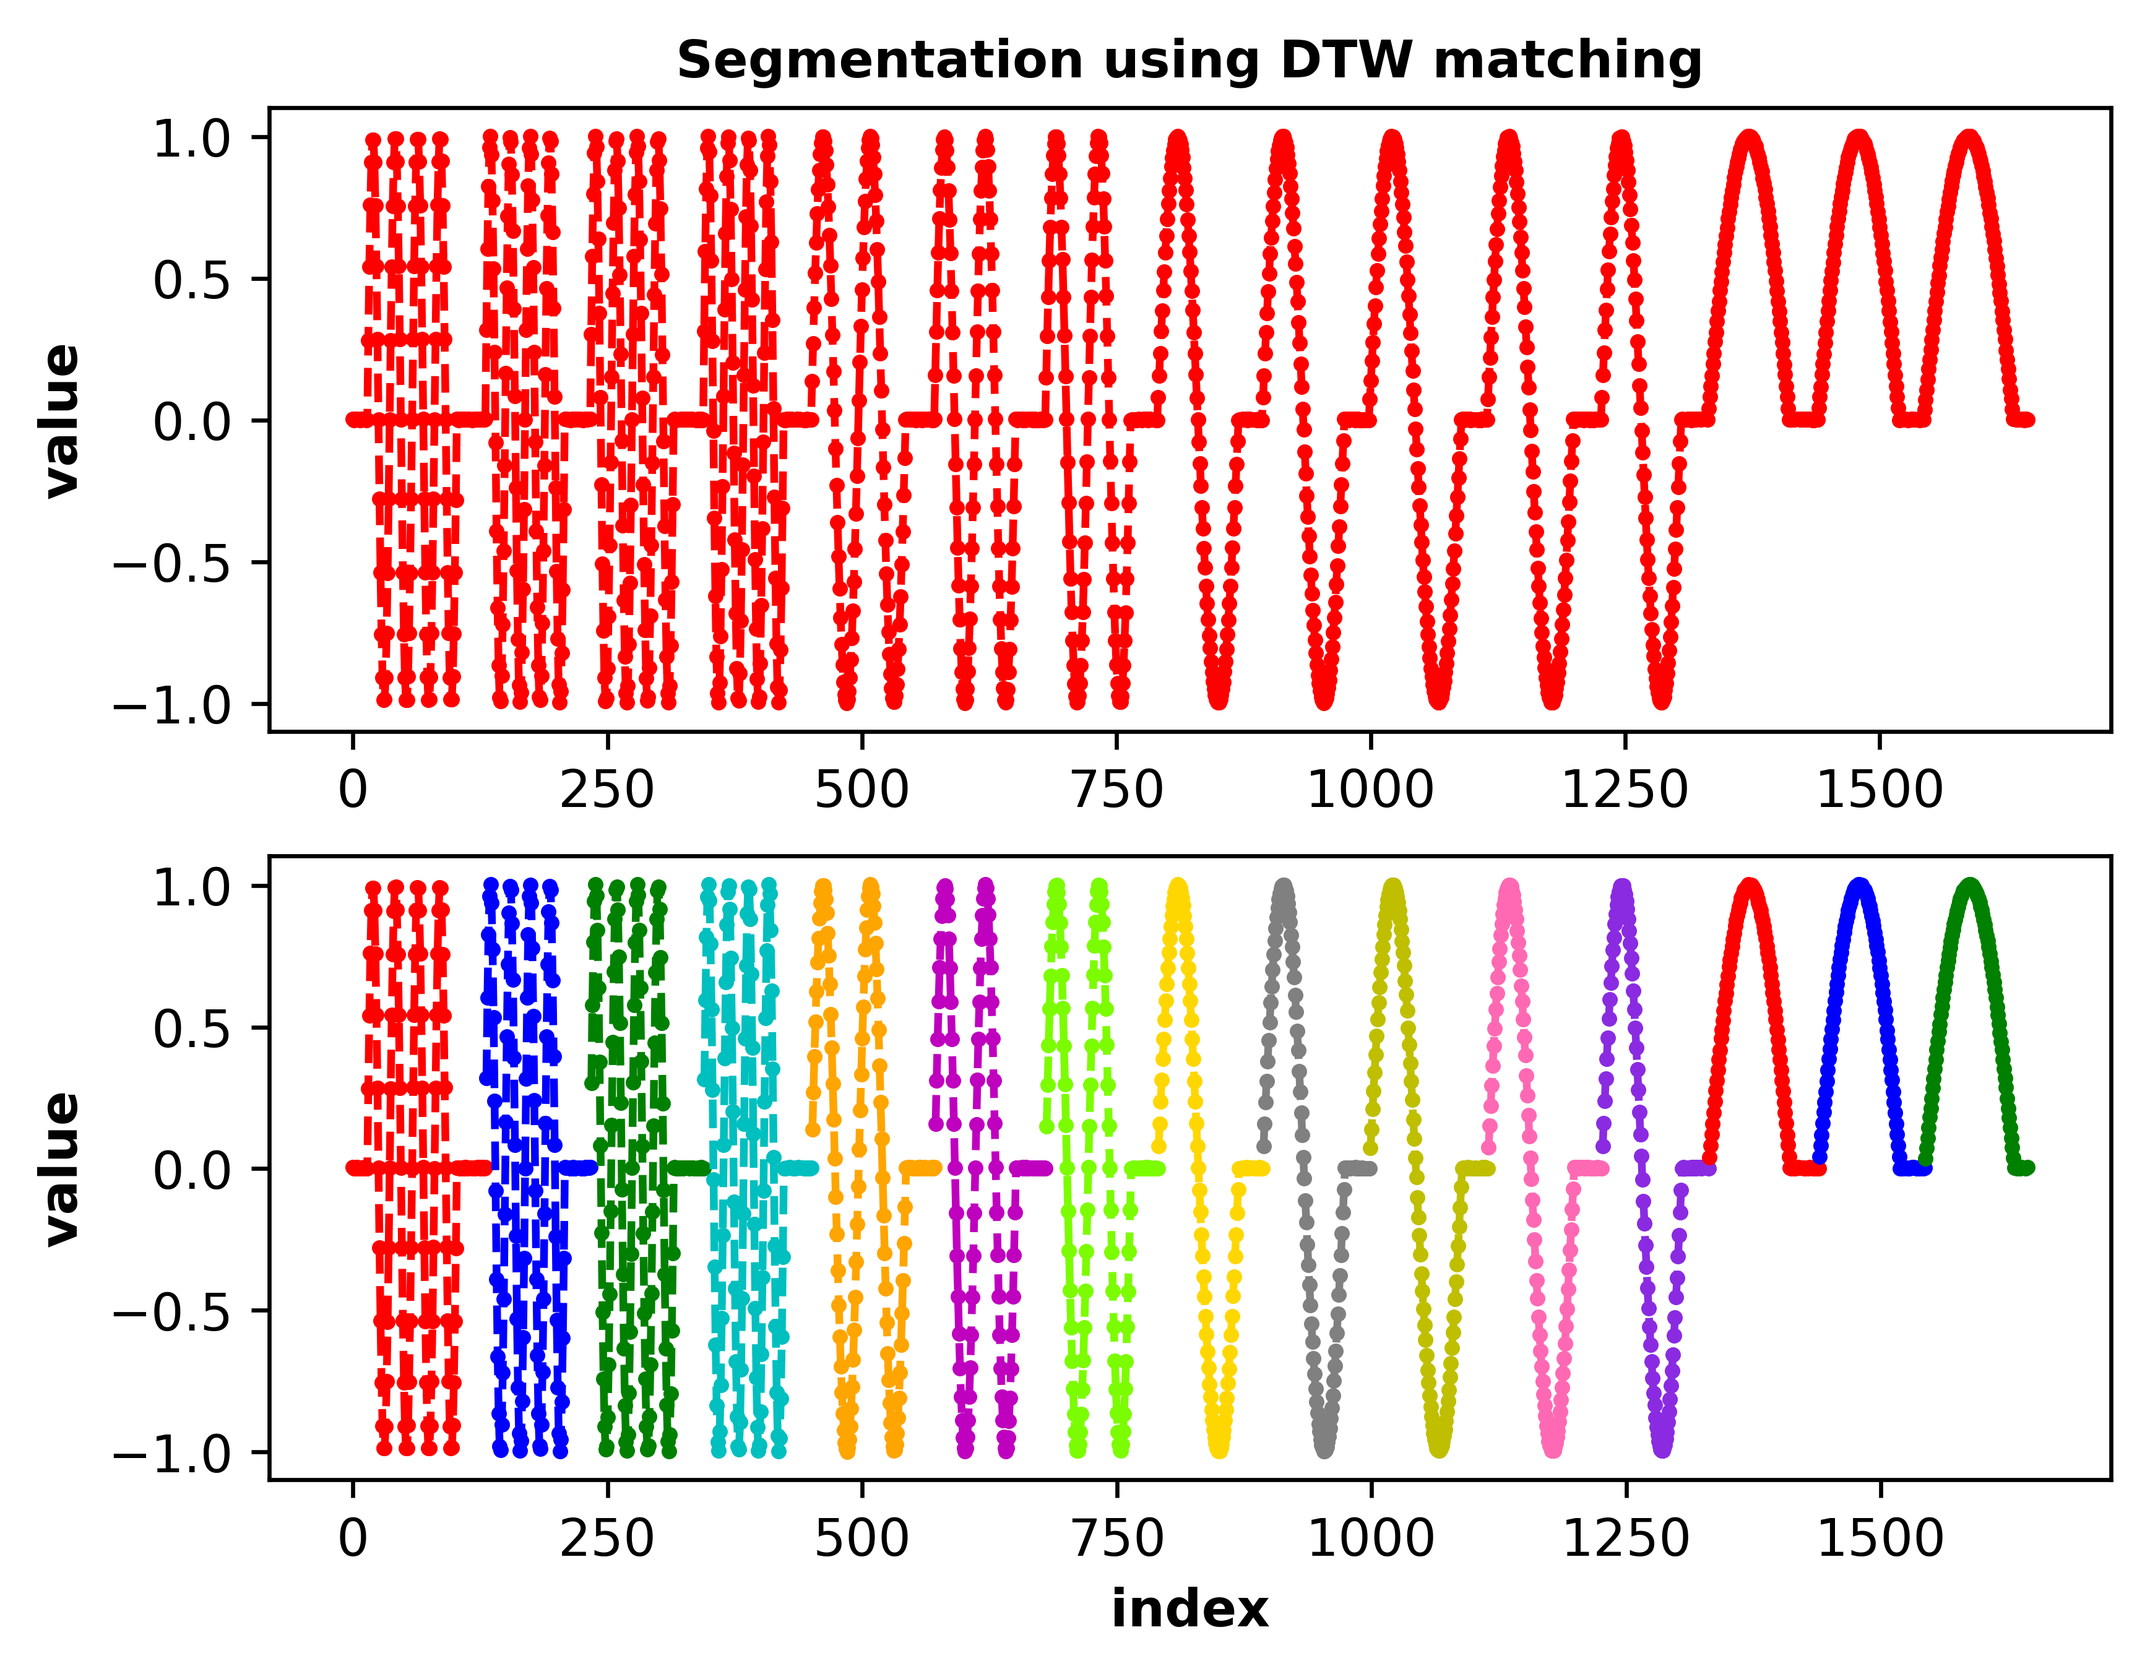
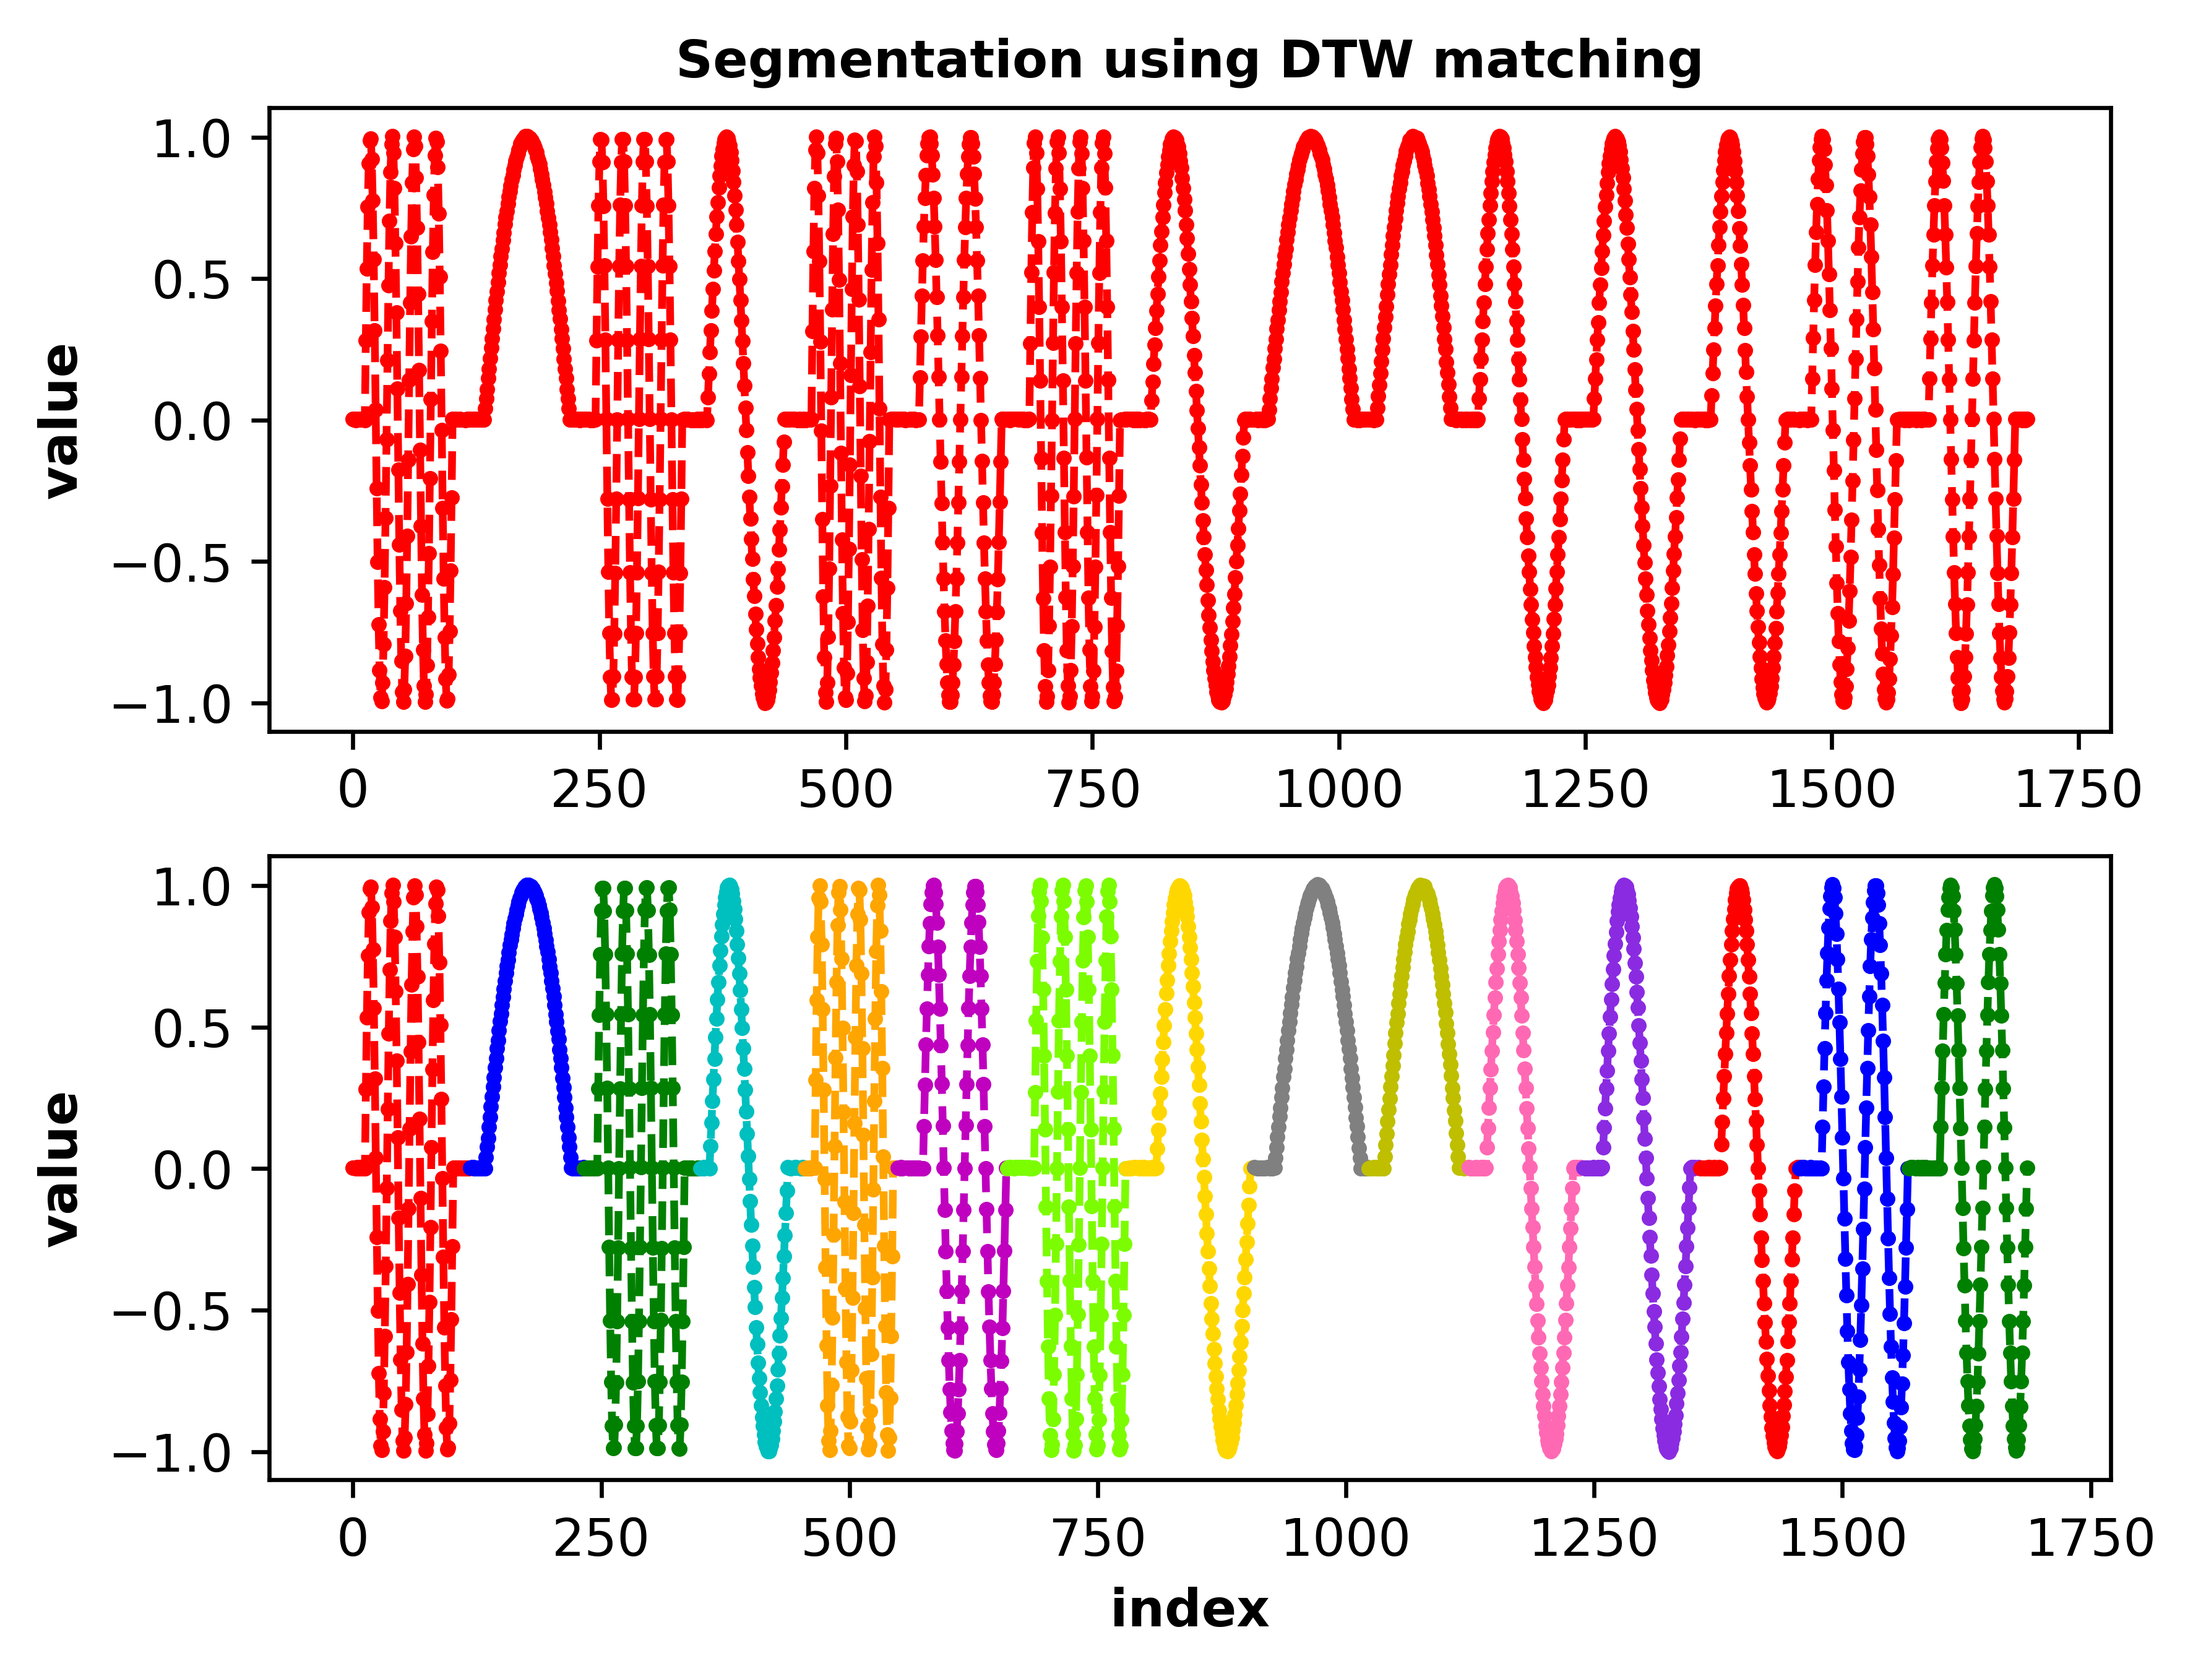
Updates

diff --git a/segmentation.py b/segmentation.py
@@ -55,8 +55,13 @@ def average_lb_distance_to_templates2(sequence, templates_info):
         for temp in t:
             mask1 = sequence[:, 0] > temp.max
             mask2 = sequence[:, 0] < temp.min
+            # For the first and last values of the sequence, we calculate the exact deviation instead of
+            # deviation with the maximum or minimum
+            mask1[0] = mask1[-1] = mask2[0] = mask2[-1] = False
             val += (np.sqrt(np.sum((sequence[mask1, 0] - temp.max) ** 2) +
-                            np.sum((sequence[mask2, 0] - temp.min) ** 2)) /
+                            np.sum((sequence[mask2, 0] - temp.min) ** 2) +
+                            (sequence[0, 0] - temp.first_value) ** 2 +
+                            (sequence[-1, 0] - temp.last_value) ** 2) /
                     (len_seq + temp.length))
 
         val /= len(t)
@@ -244,31 +249,44 @@ def search_subsequence(sequence, templates, templates_info, min_length, max_leng
     return len_best, d_min, label_best
 
 
-def template_preprocessing(templates, normalize=True, normalization_type='z-score'):
+def template_preprocessing(templates, alpha, normalize=True, normalization_type='z-score'):
     """
     Normalize the template sequences if required and save some information (length, minimum, and maximum) of each
     of the template sequences.
 
     :param templates: see function `segment_repeat_sequences`.
+    :param alpha: see function `segment_repeat_sequences`.
     :param normalize: see function `segment_repeat_sequences`.
     :param normalization_type: see function `segment_repeat_sequences`.
 
-    :return: (templates_norm, templates_info)
-    - templates_norm:
-    - templates_info:
+    :return: (templates_norm, templates_info, min_length, max_length)
+    - templates_norm: list of normalized template sequences with the same format as `templates`.
+    - templates_info: list of namedtuples with information about the templates.
+    - min_length: int value specifying the minimum length of the subsequence to be considered during matching.
+    - max_length: int value specifying the maximum length of the subsequence to be considered during matching.
     """
     num_actions = len(templates)
     logger.info("Number of actions defined by the templates = %d.", num_actions)
     info_tuple = namedtuple('info_tuple', ['length', 'min', 'max', 'first_value', 'last_value'])
-
     if normalize:
         logger.info("Applying '%s' normalization to the template sequences.", normalization_type)
 
+    min_length = np.inf
+    max_length = -np.inf
     templates_norm = [[]] * num_actions
     templates_info = [[]] * num_actions
     for i in range(num_actions):
         num_templates = len(templates[i])
         logger.info("Number of templates for action %d = %d.", i + 1, num_templates)
+        len_stats = np.percentile([a.shape[0] for a in templates[i]], [0, 50, 100])
+        v = min(len_stats[0], max(2, np.floor(alpha * len_stats[1])))
+        if v < min_length:
+            min_length = v
+
+        v = max(len_stats[2], np.ceil((1.0 / alpha) * len_stats[1]))
+        if v > max_length:
+            max_length = v
+
         templates_norm[i] = [[]] * num_templates
         templates_info[i] = [[]] * num_templates
         for j in range(num_templates):
@@ -285,11 +303,11 @@ def template_preprocessing(templates, normalize=True, normalization_type='z-scor
                 length=arr.shape[0], min=np.min(arr), max=np.max(arr), first_value=arr[0, 0], last_value=arr[-1, 0]
             )
 
-    return templates_norm, templates_info
+    return templates_norm, templates_info, int(min_length), int(max_length)
 
 
 def segment_repeat_sequences(data, templates, normalize=True, normalization_type='z-score',
-                             warping_window=None, alpha=0.7):
+                             warping_window=None, alpha=0.75):
     """
     Segment the sequence `data` to closely match the sequences specified in the list `templates`.
 
@@ -323,14 +341,10 @@ def segment_repeat_sequences(data, templates, normalize=True, normalization_type
     if normalization_type not in ('z-score', 'max-min'):
         raise ValueError("Invalid value '{}' for the parameter 'normalization_type'.".format(normalization_type))
 
-    # Use the length of the template sequences as reference to define the search range for the subsequences
-    l_min, l_avg, l_max = np.percentile([b.shape[0] for a in templates for b in a], [0, 50, 100])
-    min_length = int(min(l_min, max(2, np.floor(alpha * l_avg))))
-    max_length = int(max(l_max, np.ceil((1.0 / alpha) * l_avg)))
-
     logger.info("Length of the input sequence = %d.", data.shape[0])
-    templates_norm, templates_info = template_preprocessing(templates, normalize=normalize,
-                                                            normalization_type=normalization_type)
+    templates_norm, templates_info, min_length, max_length = template_preprocessing(
+        templates, alpha, normalize=normalize, normalization_type=normalization_type
+    )
 
     # Starting from the left end of the sequence, find the subsequence with minimum average DTW distance from
     # the templates. Repeat this iteratively to find the segments

diff --git a/test_segmentation.py b/test_segmentation.py
@@ -28,7 +28,7 @@ def main():
     curve = 'sine'
 
     # The length of each repetition subsequence is picked at random from this interval
-    length_range = [500, 550]
+    length_range = [100, 125]
 
     # Generate a set of sequences to use as templates for this action
     num_templates = 5
@@ -60,7 +60,7 @@ def main():
     # Perform segmentation of the concatenated sequence
     data_segments, labels = segment_repeat_sequences(data_sequence, template_sequences,
                                                      normalize=True, normalization_type='z-score',
-                                                     warping_window=0.5, alpha=0.7)
+                                                     warping_window=0.5, alpha=0.75)
     t2 = time.time()
     logger.info("Time taken for segmentation = %.2f seconds", t2 - t1)
 

diff --git a/README.md b/README.md
@@ -18,11 +18,20 @@ In addition to the packages listed in `requirements.txt`, we use the package `DT
 installed directly from the source (instead of using `pip`) as described in the installation page. For this reason, the package (`dtaidistance`) is not listed in `requirements.txt`. At the time of testing this code, version `1.2.2` 
 of this package was used.
 
+
 ### Usage
-The function `segmentation.segment_repeat_sequences` can be used to segment an input time series. An example of this can be found in `test_segmentation.py` and is explained briefly below.
+To test the installation, run
+```
+python test_segmentation.py
+```
+which should generate a plot of the segmented time series in the file `segmentation.png`. A sample output is shown below:
+
+![alt text](https://github.com/jayaram-r/repeat_motion_segmentation/blob/master/results/segmentation1.png "segmentation plot")
+
+The function `segmentation.segment_repeat_sequences` can be used to segment an input time series. An example of this can be found in `test_segmentation.py` and is briefly explained below.
 ```python
 data_segments, labels = segment_repeat_sequences(data_sequence, template_sequences, normalize=True, 
-                                                 normalization_type='z-score', warping_window=0.5, alpha=0.7)                                    
+                                                 normalization_type='z-score', warping_window=0.5, alpha=0.75)                                    
 ```
 #### Inputs
 - `data_sequence`: numpy array of shape `(n, 1)` with the values of the time series to be segmented. For example,
@@ -47,7 +56,7 @@ three actions with five template sequences per action.
                     to be closer to the diagonal. Note that a small value can also speed-up the DTW calculation significantly.
 - `alpha`: float value in the range `(0, 1)`, but recommended to be in the range `[0.5, 0.8]`. This value controls the search range for the subsequence length. If `m` is the median length of the template sequences, then the search 
            range for the subsequences is obtained by uniform sampling of the interval `[alpha * m, (1 / alpha) * m]`. A smaller value of `alpha` increases the search interval of the subsequence length resulting in a higher search 
-           time, but also a more extensive search for the best match. On the other hand, a larger value of `alpha` (e.g. 0.8) will result in a faster but less extensive search.
+           time, but also a more extensive search for the best match. On the other hand, a larger value of `alpha` (e.g. 0.85) will result in a faster but less extensive search.
            
 #### Outputs
 - `data_segments`: list of numpy arrays, where each array corresponds to a segment of the input sequence `data_sequence`. In other words, `data_segments = [seg_1, seg_2, . . ., seg_k]`, where `seg_i` is a numpy array of shape `(n_i, 1)` 
